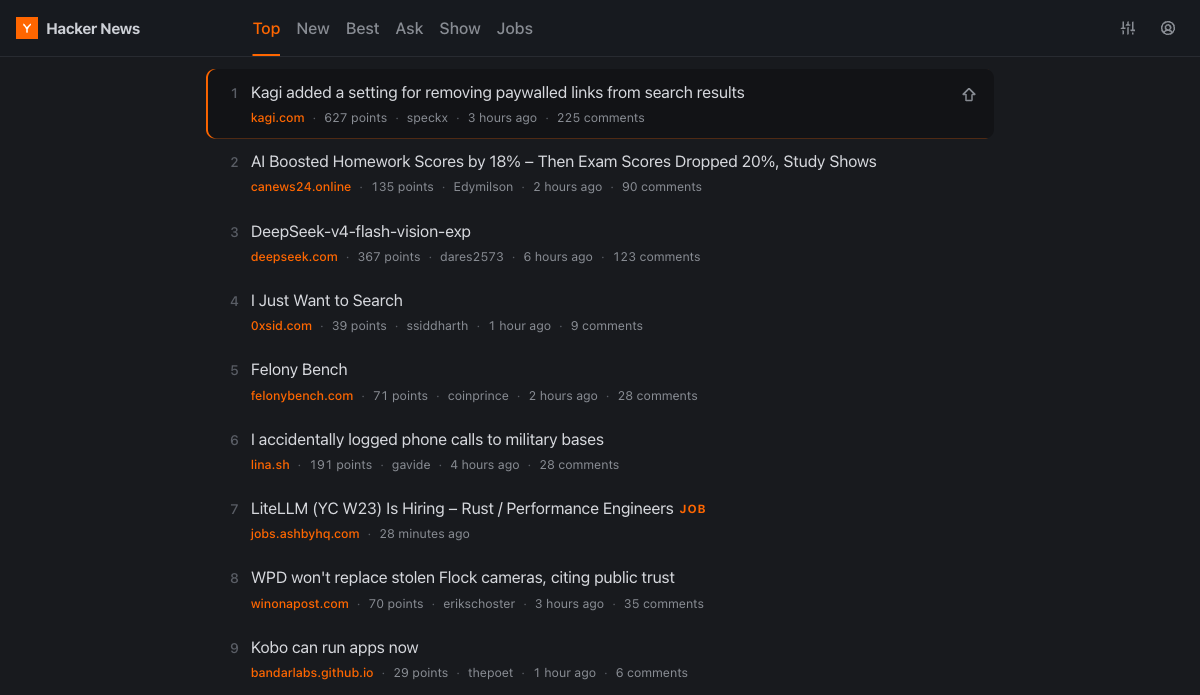
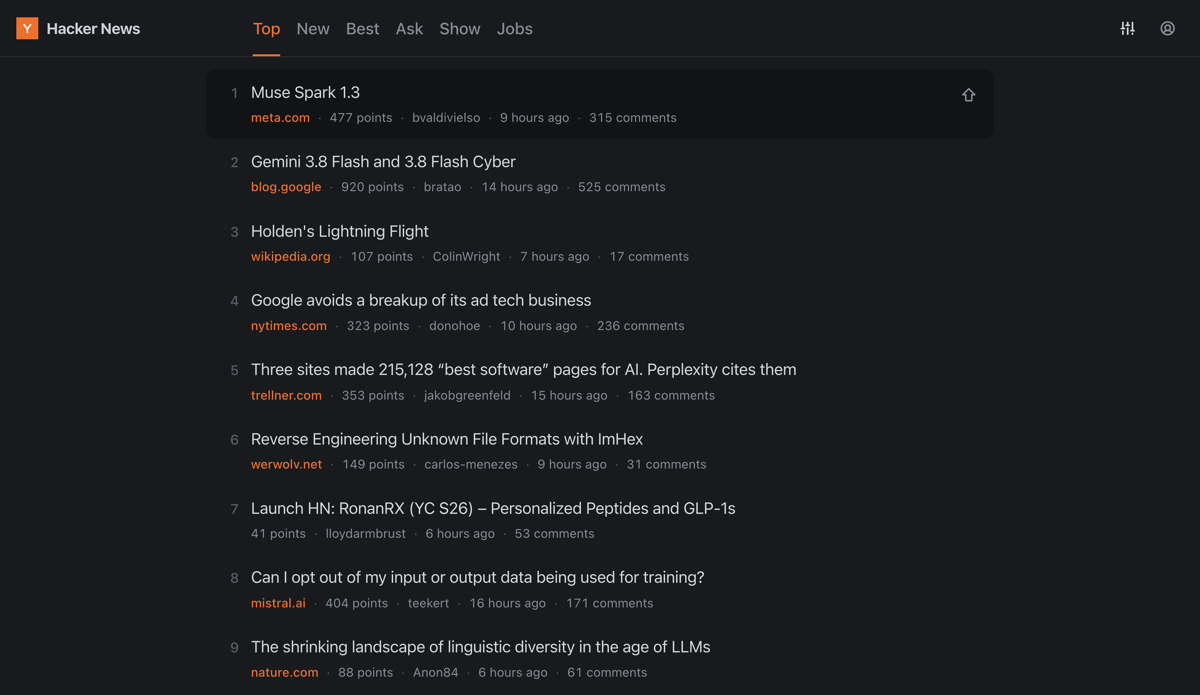
Remove orange story selection outline

diff --git a/assets/styles/theme.css b/assets/styles/theme.css
@@ -279,8 +279,8 @@ body {
 .ehn-list {
   padding-top: var(--sp-3);
 }
-/* Rows stay calm — no hover fill. Keyboard selection is the only row
-   highlight, marked with an accent spine on the left. */
+/* Rows stay calm — no hover fill. Keyboard selection is marked only by a
+   darker surface, without an accent outline competing with the content. */
 .ehn-story {
   display: flex;
   gap: var(--sp-3);
@@ -288,11 +288,10 @@ body {
   padding: calc(var(--sp-3) * var(--ehn-density)) var(--sp-3);
   border-radius: var(--r-md);
   align-items: baseline;
-  transition: background 0.14s ease, box-shadow 0.14s ease;
+  transition: background 0.14s ease;
 }
 .ehn-story.selected {
   background: var(--bg-sunken);
-  box-shadow: inset 2px 0 0 var(--ehn-accent);
 }
 .ehn-rank {
   color: var(--fg-faint);

diff --git a/landing/index.html b/landing/index.html
@@ -168,7 +168,7 @@
               <span class="theme-image-stack">
                 <img class="theme-image theme-image--light" draggable="false" src="public/card-keys-light.png"
                      width="1200" height="695" loading="lazy"
-                     alt="The Easy for Hacker News story list with one row selected by keyboard, marked with an orange rule and an upvote arrow." />
+                     alt="The Easy for Hacker News story list with one row selected by keyboard, shown on a darker background with an upvote arrow." />
                 <img class="theme-image theme-image--dark" draggable="false" src="public/card-keys-dark.png"
                      width="1200" height="695" loading="lazy" alt="" aria-hidden="true" />
               </span>
